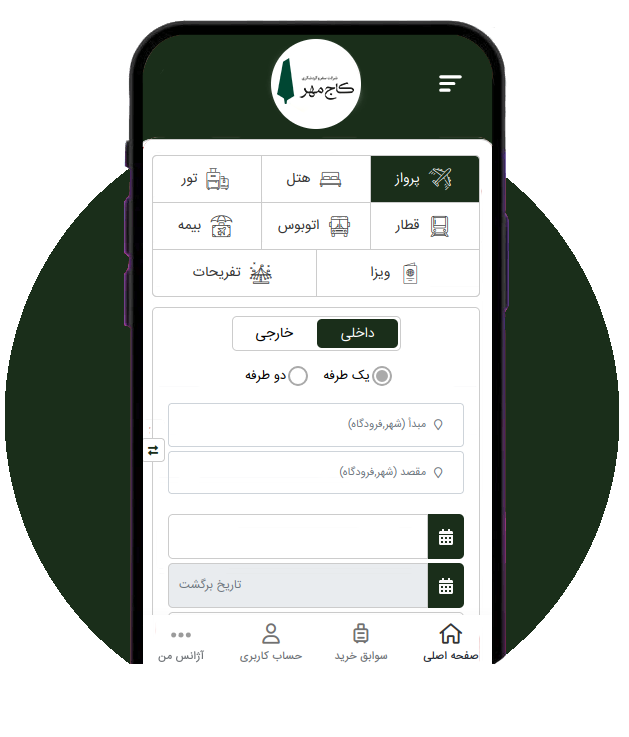
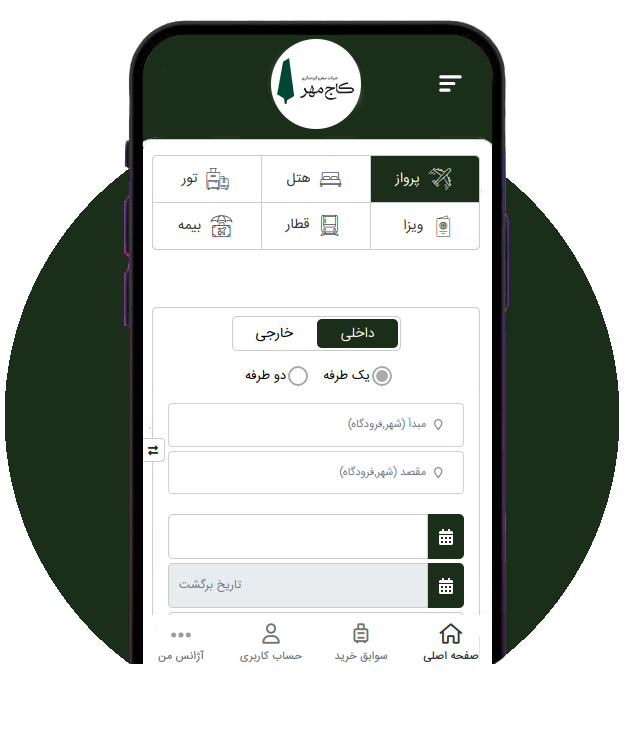
Abbasi_14050624

diff --git a/view/manshoorTravel/project_files/js/script.js b/view/manshoorTravel/project_files/js/script.js
@@ -517,7 +517,11 @@ $(document).ready(function () {
         });
 
 
-        document.getElementById('loginedname').contentWindow.postMessage('','*');
+        const frame = document.getElementById('loginedname');
+        if (frame && frame.contentWindow) {
+            frame.contentWindow.postMessage('', '*');
+        }
+
         // const frame = document.getElementById('loginedname');
         // frame.contentWindow.postMessage('*', 'https://online.manshoortravel.com/gds/iframe&manshore_solh_new&topBarMainName');
 

diff --git a/view/client/assets/main-asset/js/public-main.js b/view/client/assets/main-asset/js/public-main.js
@@ -911,8 +911,11 @@ if (window.innerWidth <= 576) {
     });
   });
 
-// Close bottom sheet with X button
-  closeSheetButton.addEventListener('click', closeBottomSheet);
+  if (closeSheetButton) {
+    // Close bottom sheet with X button
+    closeSheetButton.addEventListener('click', closeBottomSheet);
+  }
+
 
 // Close bottom sheet with overlay
   overlay.addEventListener('click', closeBottomSheet);

diff --git a/view/manshoorTravel/project_files/css/style.css b/view/manshoorTravel/project_files/css/style.css
@@ -14,6 +14,11 @@
     }
 }
 
+#vueApp .parent_sidebar .filter_airline_flight  .open-sidebar-parvaz ,
+#vueApp .parent_sidebar .parvaz-filter-change  .open-sidebar-parvaz {
+    background-color: var(--mainColor) !important;
+}
+
 .btn_box_two img {
     height: 100% !important;
 }

diff --git a/controller/bookshowTest.php b/controller/bookshowTest.php
@@ -7480,6 +7480,7 @@ class bookshowTest extends clientAuth {
         }
 
 
+
         if (empty($ListBookExclusiveTour)) {
             return [
                 "footer" => [
@@ -7507,7 +7508,6 @@ class bookshowTest extends clientAuth {
         $pubSystem_qty_type = 0;
         $GetWayIranTech     = functions::DataIranTechGetWay();
         $FlightData         = [];
-        $CountTicket        = '1';
         $RowCountTicket     = $this->CountTicket;
         foreach ( $ListBookExclusiveTour as $key => $flightBook ) {
             if($flightBook == null){
@@ -8192,7 +8192,7 @@ class bookshowTest extends clientAuth {
 
 
             $FlightData[ $FlightDataNewest ][ $key ]["رنگ"]                                                 = $ColorTr;
-            $FlightData[ $FlightDataNewest ][ $key ]["ردیف"]                                                = $CountTicket ++;
+            $FlightData[ $FlightDataNewest ][ $key ]["ردیف"]                                                = $key + 1;
             $FlightData[ $FlightDataNewest ][ $key ]["تاریخ خرید<br/>واچر<br/>بلیط<br/>"]                = $DataFlightType;
             $FlightData[ $FlightDataNewest ][ $key ]["اطلاعات پرواز"]                                        = $DataFlightInformation;
             $FlightData[ $FlightDataNewest ][ $key ]["اطلاعات هتل"]                                        = $DataHotelInformation;
@@ -8203,12 +8203,13 @@ class bookshowTest extends clientAuth {
             $FlightData[ $FlightDataNewest ][ $key ]["وضعیت"]                                               = $DataFlightCondition;
 
 
+            $ColorTr               = '';
             $DataFlightType               = '';
             $DataFlightInformation        = '';
+            $DataHotelInformation        = '';
+            $entertainmentHtml        = '';
             $DataFlightCounterType        = '';
-            $DataFlightAgencyShare        = '';
             $DataFlightTotalFree          = '';
-            $DataFlightPassengerPayData   = '';
             $DataFlightActionBtn          = '';
             $DataFlightCondition          = '';
         }
@@ -10666,7 +10667,6 @@ class bookshowTest extends clientAuth {
             if (!empty($hotel['passenger_name'])) {
                 $passengerName = $hotel['passenger_name'];
             }
-            functions::insertLog('$hotel: ' . json_encode($hotel) , '000shojaee');
 
 
             $agencyName = $hotel['agency_name'] ?? functions::ClientName($hotel['client_id']) ?? 'نامشخص';
